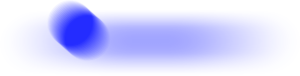
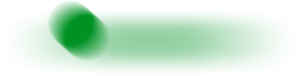
Updated to Nathan's color scheme.

diff --git a/www/index.html b/www/index.html
@@ -63,8 +63,8 @@
       function leaveLink(name)
       {
         swapImage(name, 0);
-        document.getElementById(name+"Txt").style.color = "cyan";
-        document.getElementById(name+"Txt").style.textShadow = "#0000DD -1.5px -1.5px 1.5px";
+        document.getElementById(name+"Txt").style.color = "#44FFAA";
+        document.getElementById(name+"Txt").style.textShadow = "#000088 -1.5px -1.5px 1.5px";
         return true;
       }
     //-->
@@ -117,11 +117,11 @@
 
 		.sidelink {
 		  text-decoration: none;
-		  color: cyan;
+		  color: #44FFAA;
 		  position: relative;
 		  left: 0px;
 		  top: 0px;
-		  text-shadow: #0000DD -1.5px -1.5px 1.5px;
+		  text-shadow: #000088 -1.5px -1.5px 1.5px;
 		}
 
 		.hrsep {
